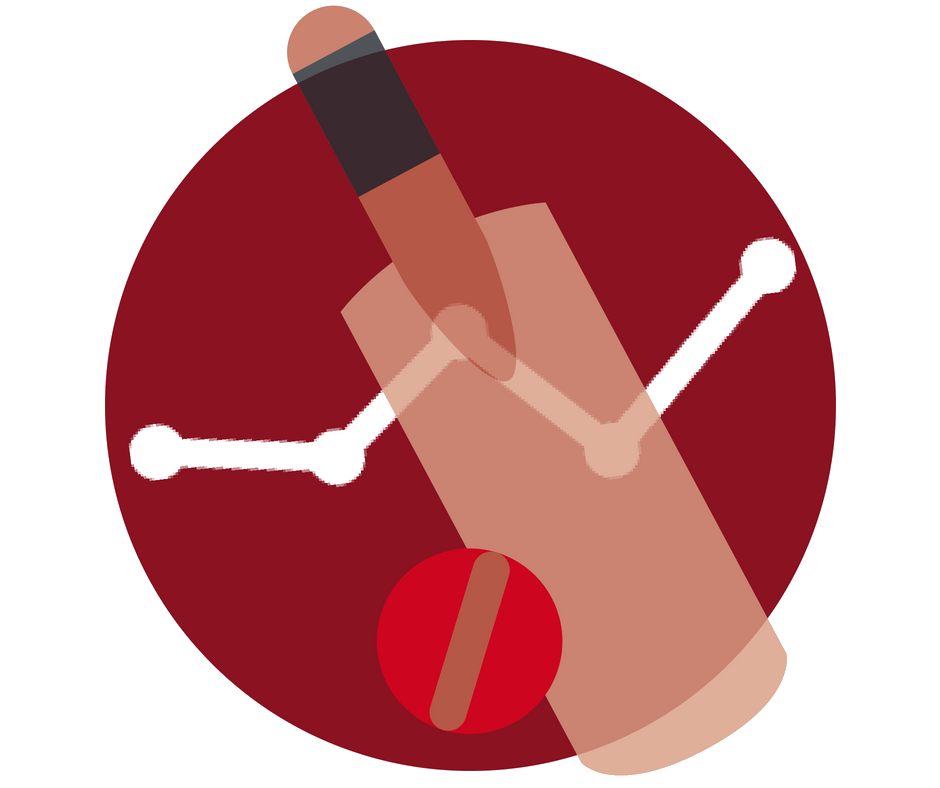
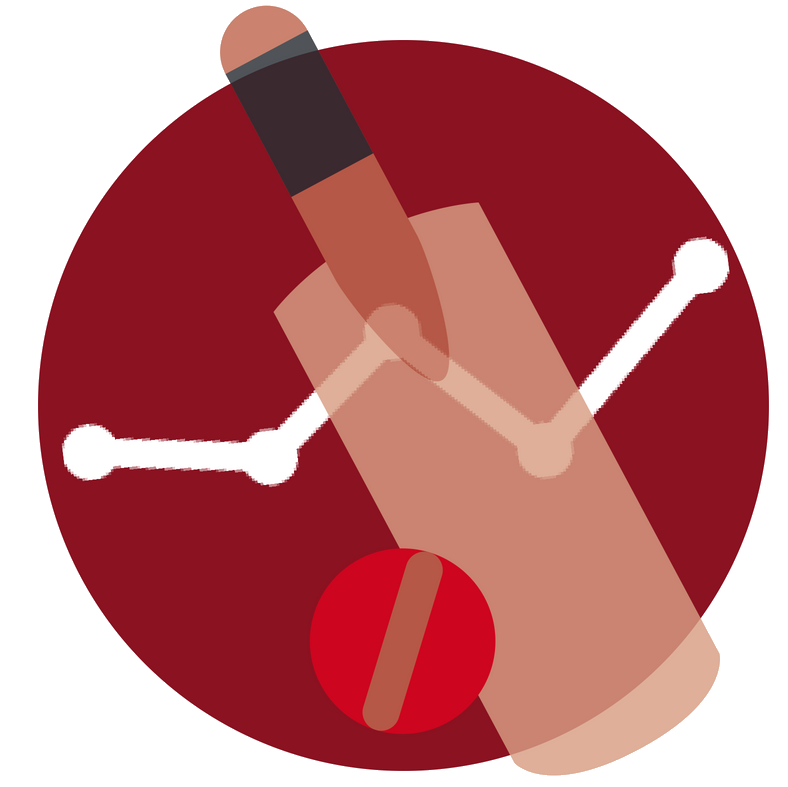
kj

diff --git a/static/criclysis/css/style.css b/static/criclysis/css/style.css
@@ -32,7 +32,7 @@ body{
 font-size: 1em !important;
 }
 .imglogo{
-width:60px !important;
+width:50px !important;
 margin-right:-0.3em !important;
 margin-left:-0.3em !important;
 }
@@ -54,9 +54,10 @@ margin-left:-0.3em !important;
 font-size: 1em !important;
 }
 .imglogo{
-width:60px !important;
-height:60px !important;
-margin-right:-0.3em !important;
+width:50px !important;
+height:50px !important;
+margin-top:-2em !important;
+margin-right:-0.2em !important;
 margin-left:-0.3em !important;
 }
     }
@@ -88,9 +89,9 @@ font-size: 1em !important;
   background-color: #1c1c1c; }
 
 .imglogo{
-width:80px;
-height:80px;
-margin-top:-2.2em;
+width:60px;
+height:60px;
+margin-top:-2em;
 margin-bottom:-2em;
 }
 .logo {
